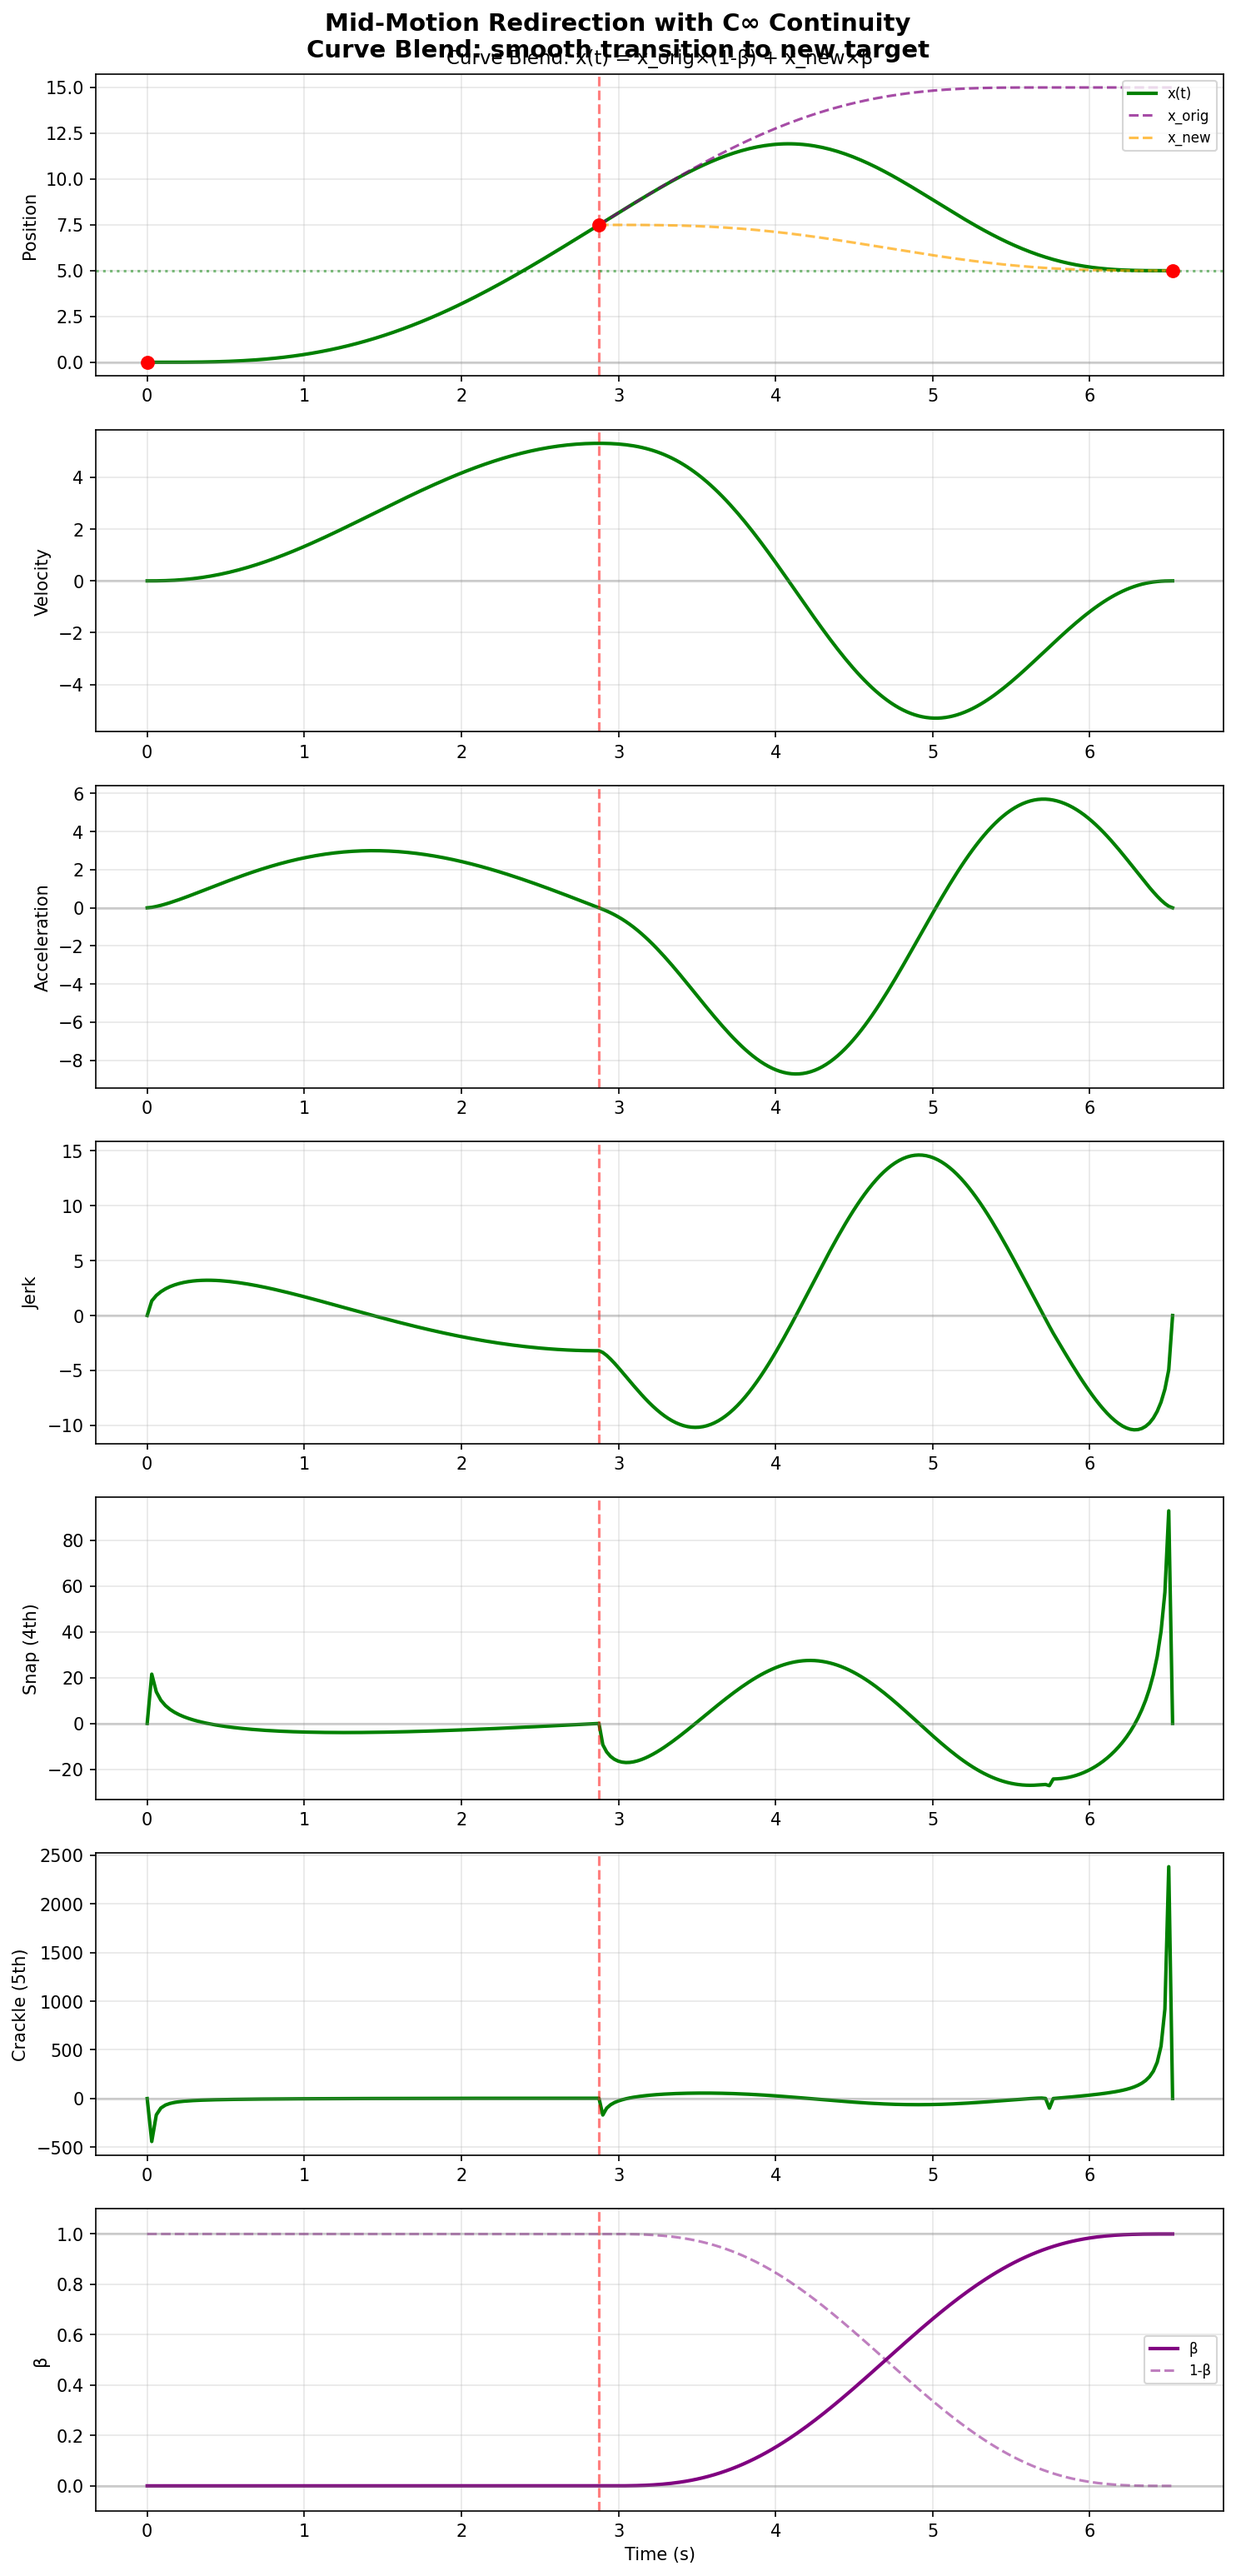
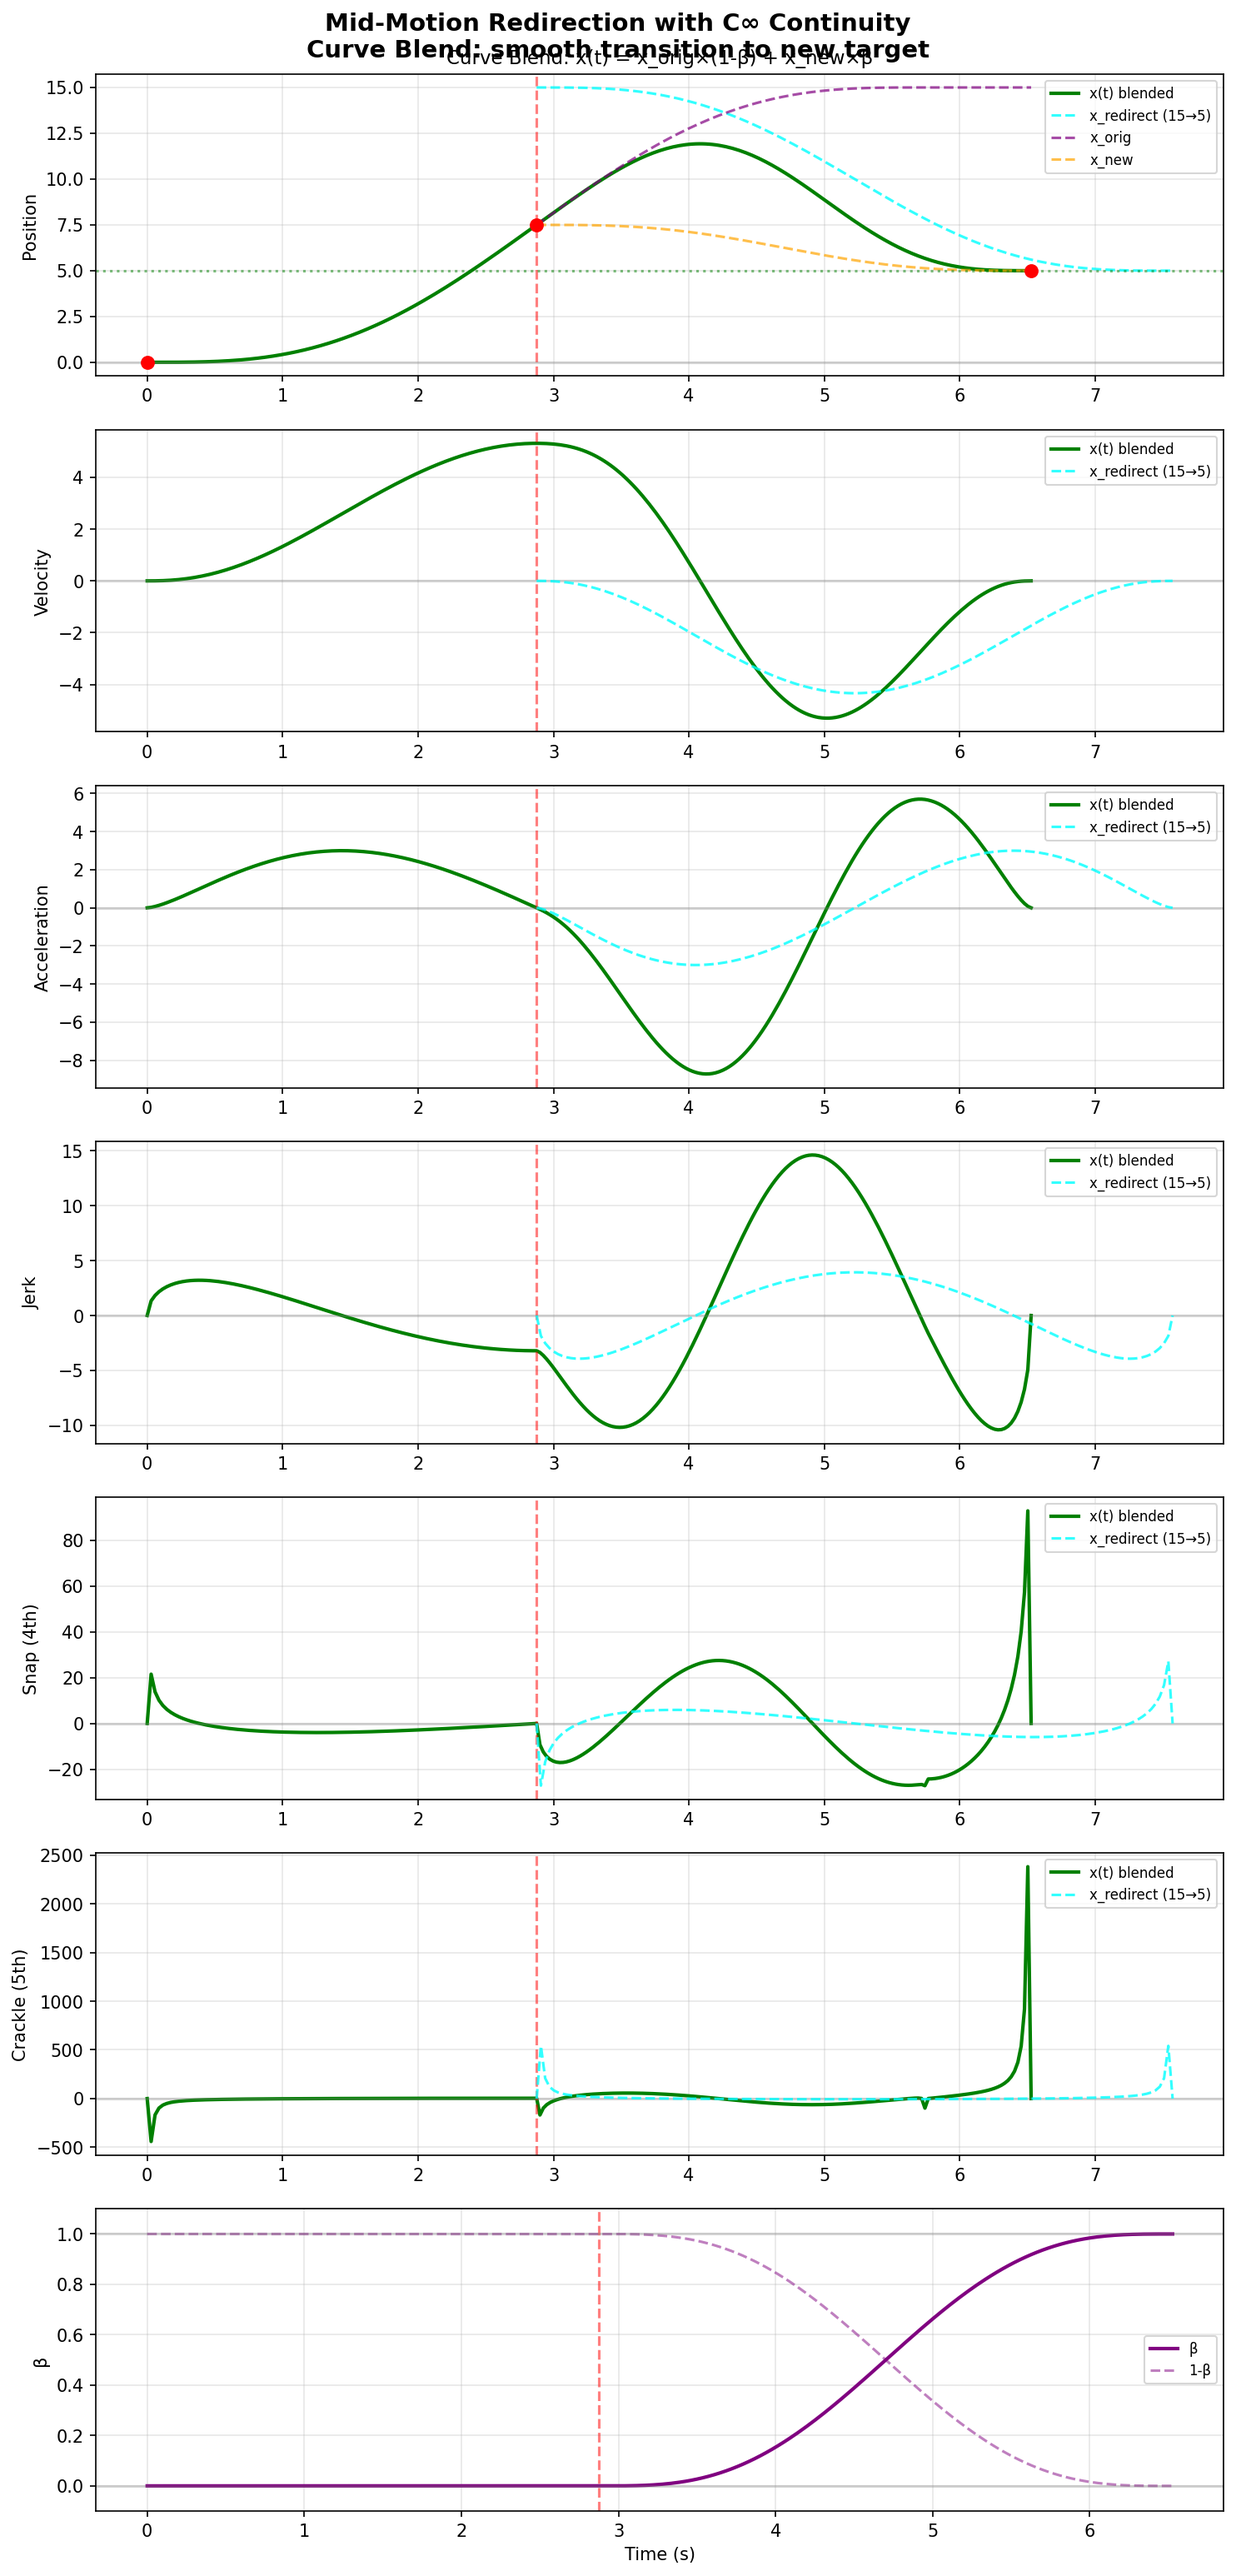
Add redirect S-curve visualization (x_orig_end → x_target)
Plot the hypothetical "clean" S-curve from 15→5 in cyan dashed lines
for all derivatives. This shows the baseline that would exist without
the velocity continuity requirement from the interrupted motion.

Comparison:
- Redirect S-curve: snap ~20, crackle ~500
- Blended motion: snap ~90, crackle ~2500

diff --git a/generate_plots.py b/generate_plots.py
@@ -847,6 +847,31 @@ def plot_blend_comparison():
     new_derivs = motion2._get_new_curve_derivatives(t2, max_order=0)
     x_new = new_derivs[0]
 
+    # Create hypothetical "redirect" S-curve: x_orig_end → x_target (rest-to-rest)
+    # This shows what a clean S-curve from 15 → 5 would look like
+    x_orig_end = motion2.x_orig_end
+    plan_redirect = plan_motion(x_orig_end, x_new_target, v0=0, v1=0,
+                                robotVmax=robotVmax, robotAmax=robotAmax)
+    T_redirect = plan_redirect['T']
+
+    # Evaluate redirect motion over T2 (stretch/compress to match blend duration)
+    t_redirect = np.linspace(0, T_redirect, 150)
+    pos_redirect, vel_redirect, acc_redirect = evaluate_motion(plan_redirect, t_redirect)
+
+    # Compute higher derivatives for redirect motion
+    tau_start_r = plan_redirect['tau_start']
+    tau_end_r = plan_redirect['tau_end']
+    delta_tau_r = tau_end_r - tau_start_r
+    delta_x_r = plan_redirect['x1'] - plan_redirect['x0']
+    S_r = delta_x_r / 1.0  # delta_f = 1
+    tau_dot_r = delta_tau_r / T_redirect
+    tau_r = tau_start_r + delta_tau_r * (t_redirect / T_redirect)
+    f_derivs_r = normalized_f_derivatives(tau_r, max_order=5)
+
+    jerk_redirect = S_r * f_derivs_r[3] * (tau_dot_r ** 3)
+    snap_redirect = S_r * f_derivs_r[4] * (tau_dot_r ** 4)
+    crackle_redirect = S_r * f_derivs_r[5] * (tau_dot_r ** 5)
+
     # Combined timeline
     t_combined = np.concatenate([t1, t_interrupt + t2[1:]])
     pos_combined = np.concatenate([pos1, pos2[1:]])
@@ -858,16 +883,21 @@ def plot_blend_comparison():
 
     # Plot derivatives
     data = [pos_combined, vel_combined, acc_combined, jerk_combined, snap_combined, crackle_combined]
+    redirect_data = [pos_redirect, vel_redirect, acc_redirect, jerk_redirect, snap_redirect, crackle_redirect]
     names = ['Position', 'Velocity', 'Acceleration', 'Jerk', 'Snap (4th)', 'Crackle (5th)']
     color = 'green'
 
-    for row, (d, name) in enumerate(zip(data, names)):
+    for row, (d, name, d_redirect) in enumerate(zip(data, names, redirect_data)):
         ax = axs[row]
-        ax.plot(t_combined, d, color=color, linewidth=2, label='x(t)')
+        ax.plot(t_combined, d, color=color, linewidth=2, label='x(t) blended')
         ax.axvline(x=t_interrupt, color='r', linestyle='--', alpha=0.5)
         ax.axhline(y=0, color='gray', linestyle='-', alpha=0.3)
         ax.set_ylabel(name)
         ax.grid(True, alpha=0.3)
+
+        # Plot redirect S-curve (x_orig_end → x_target) in cyan dashed
+        ax.plot(t_interrupt + t_redirect, d_redirect, 'cyan', linestyle='--', linewidth=1.5,
+               alpha=0.8, label=f'x_redirect ({x_orig_end:.0f}→{x_new_target})')
 
         if row == 0:
             ax.set_title('Curve Blend: x(t) = x_orig×(1-β) + x_new×β', fontsize=11)
@@ -879,7 +909,7 @@ def plot_blend_comparison():
             ax.axhline(y=x_new_target, color='green', linestyle=':', alpha=0.5)
             ax.scatter([0, t_interrupt, t_interrupt + T2],
                       [pos1[0], pos1[-1], pos2[-1]], color='red', s=50, zorder=5)
-            ax.legend(loc='upper right', fontsize=8)
+        ax.legend(loc='upper right', fontsize=8)
 
     # Plot beta functions (row 6)
     ax = axs[6]
